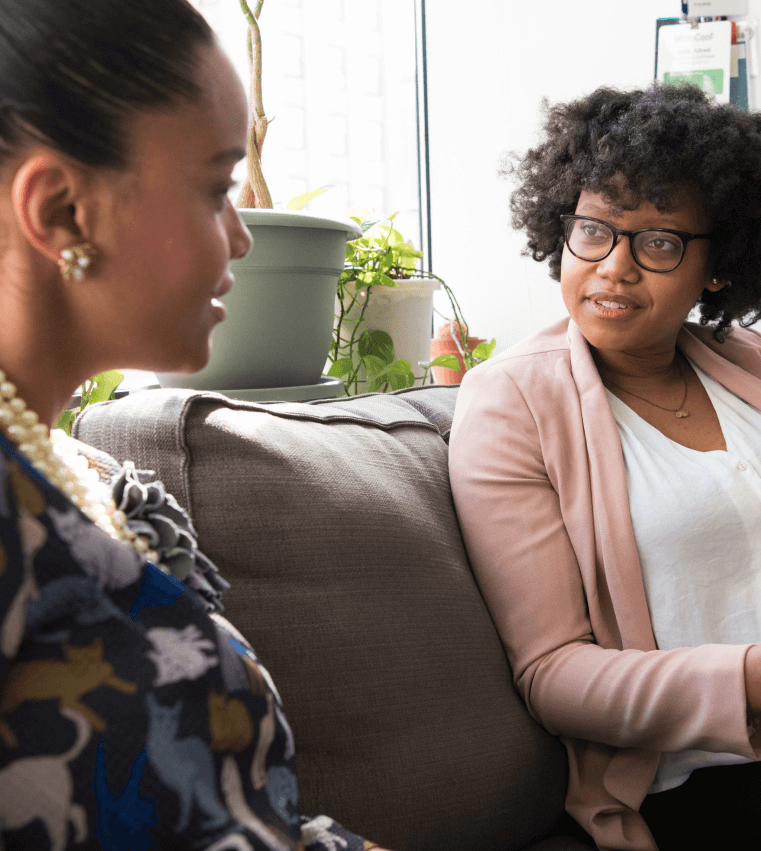
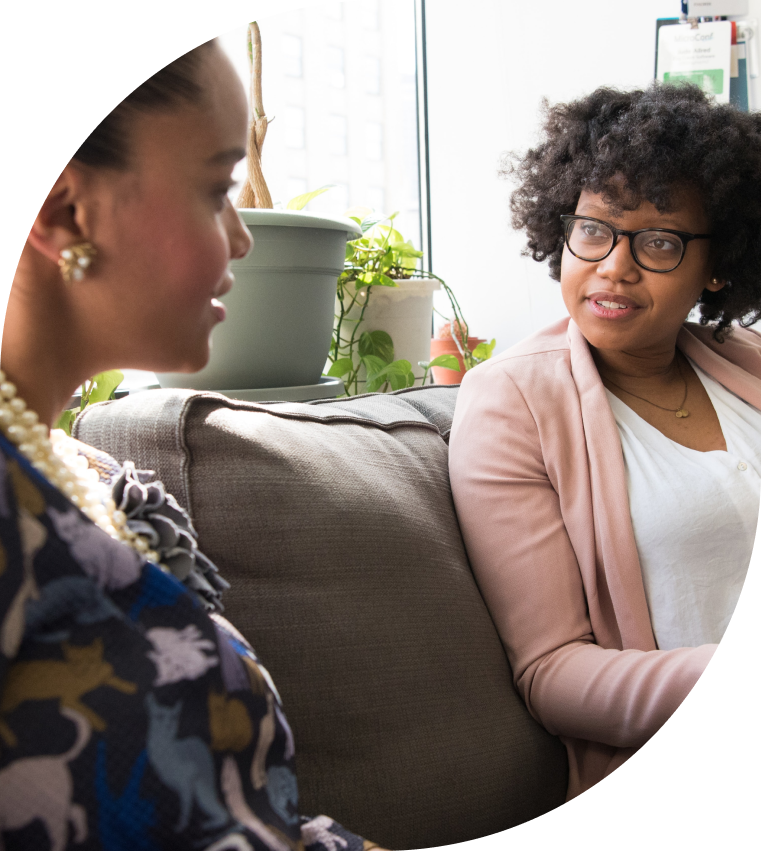
update about

Changed region(s): [[0.544, 0.5805, 1.0, 1.0], [0.0, 0.0, 0.3022, 0.3972], [0.3022, 0.0, 0.3627, 0.0306]]

diff --git a/index.html b/index.html
@@ -109,7 +109,7 @@
             </nav> -->
             <!-- <div class="xl:max-w-[1280px] w-full lg:mx-[200px] md:mx-[165px] sm:mx-[100px] mx-4"></div> -->
 
-            <!-- hero -->
+            <!-- hero starts -->
             <div
                 class="flex justify-center items-start bg-cover bg-no-repeat"
                 style="background-image: url('assets/background.jpg')">
@@ -135,15 +135,18 @@
                     </section>
                 </div>
             </div>
+            <!-- hero ends -->
 
+            <!-- about start -->
             <div class="bg-[#40082B] sm:px-16 px-6 flex justify-center items-start">
                 <div class="xl:max-w-[1280px] w-full">
+                    <!-- header -->
                     <div class="flex items-center justify-center">
                         <h2 class="text-white-01 font-bold text-h2 pt-32">About</h2>
                     </div>
                     <!-- image 01 -->
-                    <section id="about" class="flex md:flex-row flex-col sm:py-16 py-6">
-                        <div class="md:py-[109px] py-6 px-8">
+                    <section id="about" class="flex md:flex-row flex-col gap-x-8 items-center md:py-8 py-3">
+                        <div class="md:py-[109px] py-6 px-8 basis-2/3">
                             <h3 class="text-white-01 text-h3 font-bold">Mission</h3>
                             <h4 class="text-white-02 text-h4 font-medium pt-4">
                                 Welcome to IQMK Global
@@ -160,18 +163,20 @@
                                 positive contributor to society at large.
                             </p>
                         </div>
-                        <img
-                            src="assets/image_02.png"
-                            class="h-[701px] w-[619]"
-                            alt="image_02.png" />
+                        <div class="basis-1/3 outline outline-offset-[9px] outline-white outline-1 rounded-full relative">
+                            <img src="assets/image_01.png" class="" alt="image_01.png" />
+                            <!-- <div class="w-full h-full bg-shade absolute top-0 left-0 rounded-full"></div> -->
+                            <div class="absolute top-0 left-0 h-full w-full outline outline-offset-[-9px] outline-white outline-1 rounded-full"></div>
+                        </div>
                     </section>
-                    <!-- image 02 -->
-                    <section id="about" class="flex md:flex-row flex-col-reverse sm:py-16 py-6">
-                        <img
-                            src="assets/image_01.png"
-                            class="h-[701px] w-[619]"
-                            alt="image_01.png" />
-                        <div class="md:py-[109px] py-6 px-8">
+
+                    <section id="about" class="flex md:flex-row flex-col-reverse gap-x-8 items-center md:py-8 py-3">
+                         <div class="basis-1/3 outline outline-offset-[9px] outline-white outline-1 rounded-full relative">
+                            <img src="assets/image_01.png" class="" alt="image_01.png" />
+                            <!-- <div class="w-full h-full bg-shade absolute top-0 left-0 rounded-full"></div> -->
+                            <div class="absolute top-0 left-0 h-full w-full outline outline-offset-[-9px] outline-white outline-1 rounded-full"></div>
+                        </div>
+                        <div class="md:py-[109px] py-6 px-8 basis-2/3">
                             <h3 class="text-white-01 text-h3 font-bold">Mission</h3>
                             <h4 class="text-white-02 text-h4 font-medium pt-4">
                                 Welcome to IQMK Global
@@ -189,9 +194,9 @@
                             </p>
                         </div>
                     </section>
-                    <!-- image 03 -->
-                    <section id="about" class="flex md:flex-row flex-col sm:py-16 py-6">
-                        <div class="md:py-[109px] py-6 px-8">
+
+                    <section id="about" class="flex md:flex-row flex-col gap-x-8 items-center md:py-8 py-3">
+                        <div class="md:py-[109px] py-6 px-8 basis-2/3">
                             <h3 class="text-white-01 text-h3 font-bold">Mission</h3>
                             <h4 class="text-white-02 text-h4 font-medium pt-4">
                                 Welcome to IQMK Global
@@ -208,18 +213,20 @@
                                 positive contributor to society at large.
                             </p>
                         </div>
-                        <img
-                            src="assets/image_03.png"
-                            class="h-[851px] w-[741.55px]"
-                            alt="image_03.png" />
+                        <div class="basis-1/3 outline outline-offset-[9px] outline-white outline-1 rounded-full relative">
+                            <img src="assets/image_01.png" class="" alt="image_01.png" />
+                            <!-- <div class="w-full h-full bg-shade absolute top-0 left-0 rounded-full"></div> -->
+                            <div class="absolute top-0 left-0 h-full w-full outline outline-offset-[-9px] outline-white outline-1 rounded-full"></div>
+                        </div>
                     </section>
-                    <!-- image 04 -->
-                    <section id="about" class="flex md:flex-row flex-col-reverse sm:py-16 py-6">
-                        <img
-                            src="assets/image_04.png"
-                            class="h-[851px] w-[741.55px]"
-                            alt="image_04.png" />
-                        <div class="md:py-[109px] py-6 px-8">
+
+                    <section id="about" class="flex md:flex-row flex-col-reverse gap-x-8 items-center pb-32 md:pt-8 pt-3">
+                         <div class="basis-1/3 outline outline-offset-[9px] outline-white outline-1 rounded-full relative">
+                            <img src="assets/image_01.png" class="" alt="image_01.png" />
+                            <!-- <div class="w-full h-full bg-shade absolute top-0 left-0 rounded-full"></div> -->
+                            <div class="absolute top-0 left-0 h-full w-full outline outline-offset-[-9px] outline-white outline-1 rounded-full"></div>
+                        </div>
+                        <div class="md:py-[109px] py-6 px-8 basis-2/3">
                             <h3 class="text-white-01 text-h3 font-bold">Mission</h3>
                             <h4 class="text-white-02 text-h4 font-medium pt-4">
                                 Welcome to IQMK Global
@@ -239,7 +246,9 @@
                     </section>
                 </div>
             </div>
+            <!-- about ends -->
 
+            <!-- products starts -->
             <div class="bg-primary-09 sm:px-16 px-6 flex justify-center items-start pt-20">
                 <div class="xl:max-w-[1280px] w-full">
                     <h2 class="text-h2 font-bold text-secondary-01">Products You Can Trust</h2>
@@ -249,7 +258,7 @@
                                 <img
                                     src="assets/image_05.png"
                                     class="md:h-full h-[300px] w-full object-cover"
-                                    alt="" />
+                                    alt="image_05.png" />
                                 <div class="w-full h-full bg-shade absolute top-0 left-0"></div>
                                 <!-- <div class="absolute top-0 left-0"> -->
                                 <div class="absolute absolute md:top-0 bottom-0 left-0">
@@ -264,7 +273,7 @@
                                     </div>
                                 </div>
                             </div>
-                            <div class="flex flex-col flex-1 justify-center p-4">
+                            <div class="flex flex-1 flex-col justify-center p-4">
                                 <h4 class="text-h4 font-bold text-white-01">
                                     "Let food be thy medicine and the medicine be thy food"
                                     <br />
@@ -296,18 +305,19 @@
                     </section>
                     <section class="flex justify-center sm:py-16 py-6">
                         <div class="flex flex-col items-center w-full">
-                            <div class="grid gap-4 md:grid-cols-3 grid-cols-2  auto-rows-max gap-x-4 md:w-2/3 w-full">
+                            <div
+                                class="grid gap-4 md:grid-cols-3 grid-cols-2 auto-rows-max gap-x-4 md:w-2/3 w-full">
                                 <div class="bg-theme rounded-t-lg rounded-[60px]">
                                     <img src="assets/image_06.png" alt="" />
                                     <div
                                         class="flex flex-col items-start bg-white-01 p-4 rounded-b-lg">
-                                        <span class="text-large text-secondary-02 font-regular"
-                                            >MUSNATURAL</span
-                                        >
-                                        <span class="text-normal text-secondary-03 font-regular h"
-                                            >MUSCADINE SEEDS AND SKINS is the flagship product of
-                                            IQMK.</span
-                                        >
+                                        <span class="text-large text-secondary-02 font-regular">
+                                            MUSNATURAL
+                                        </span>
+                                        <span class="text-normal text-secondary-03 font-regular h">
+                                            MUSCADINE SEEDS AND SKINS is the flagship product of
+                                            IQMK.
+                                        </span>
                                         <button class="text-medium text-primary-01 font-medium">
                                             Read more
                                         </button>
@@ -317,13 +327,13 @@
                                     <img src="assets/image_06.png" alt="" />
                                     <div
                                         class="flex flex-col items-start bg-white-01 p-4 rounded-b-lg">
-                                        <span class="text-large text-secondary-02 font-regular"
-                                            >MUSNATURAL</span
-                                        >
+                                        <span class="text-large text-secondary-02 font-regular">
+                                            MUSNATURAL
+                                        </span>
                                         <span class="text-normal text-secondary-03 font-regular h"
                                             >MUSCADINE SEEDS AND SKINS is the flagship product of
-                                            IQMK.</span
-                                        >
+                                            IQMK.
+                                        </span>
                                         <button class="text-medium text-primary-01 font-medium">
                                             Read more
                                         </button>
@@ -356,6 +366,7 @@
                     </section>
                 </div>
             </div>
+            <!-- products ends -->
 
             <!-- <section id="about" class="w-full bg-[#40082B]">
                         <div class="lg:mx-[200px] md:mx-[165px] sm:mx-[100px] mx-4">
